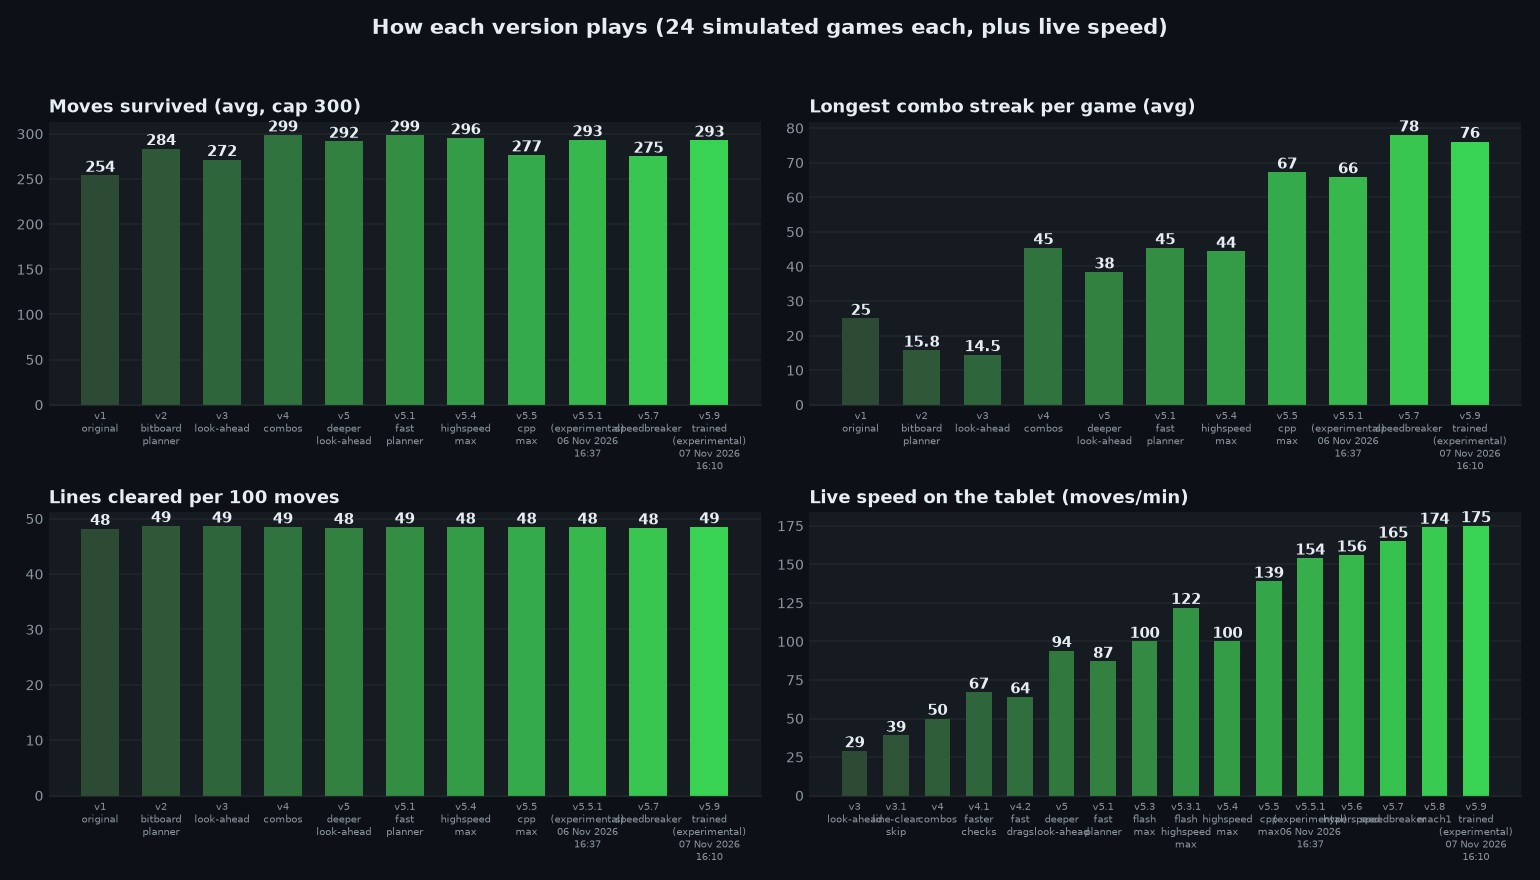
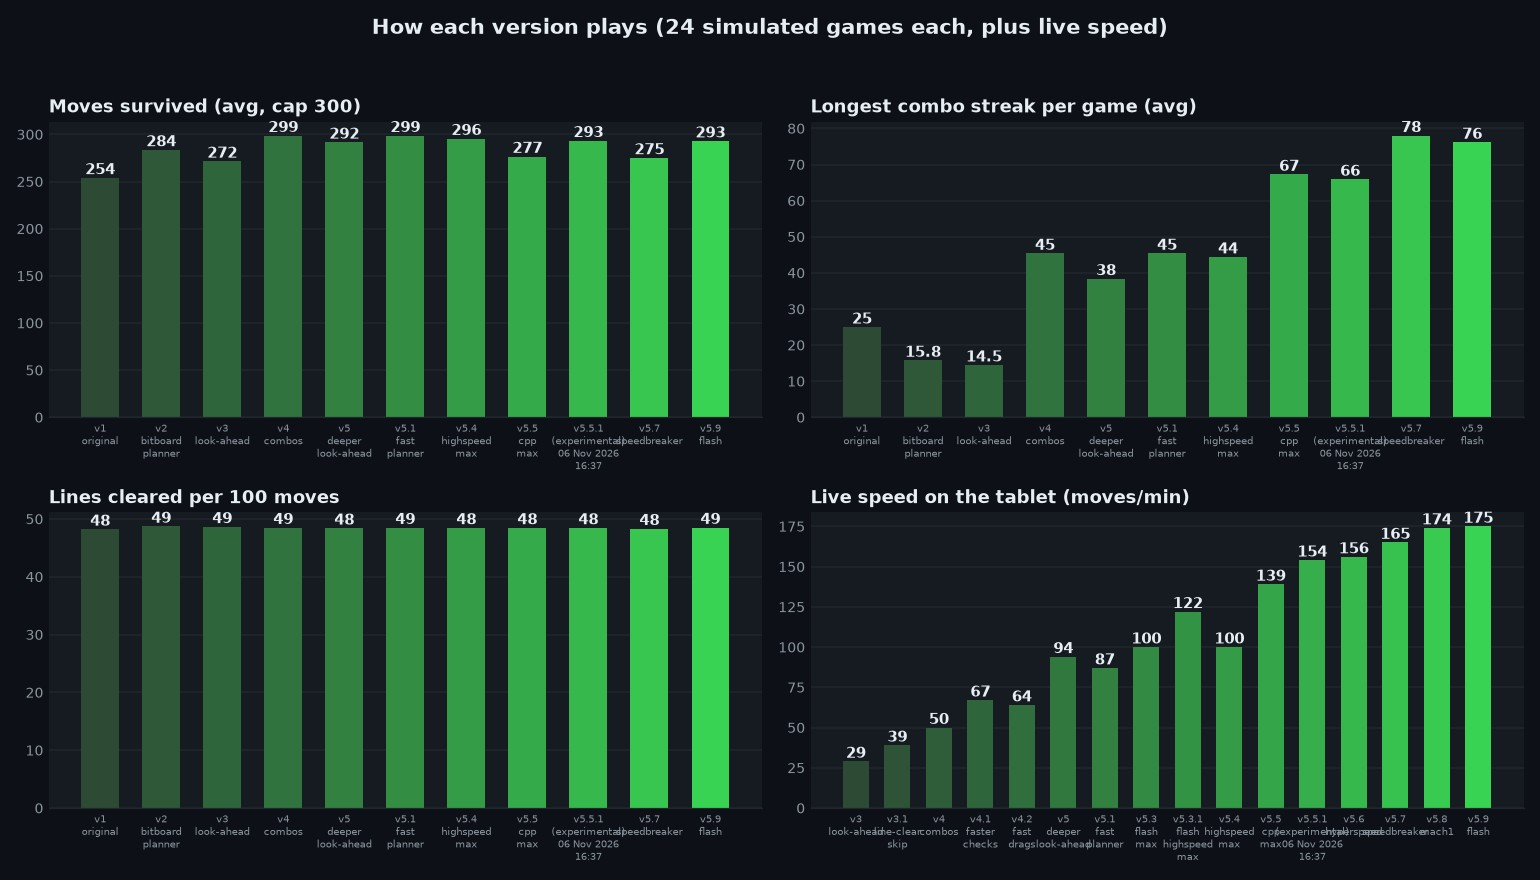
Benchmark: v5.9 flash (released)

diff --git a/bench.py b/bench.py
@@ -36,14 +36,14 @@ VERSIONS = [
     ('v5.5 cpp max', 'e2f0115', 'cpp'),
     ('v5.5.1 (experimental)', '2847186', 'cpp'),
     ('v5.7 speedbreaker', '82bbd9d', 'cpp'),
-    ('v5.9 trained (experimental)', '70c481b', 'cpp'),
+    ('v5.9 flash', '0cbd373', 'cpp'),
 ]
 # Where each C++ version's planner source lives in its commit.
 CPP_SRC = {'v5.5 cpp max': 'versions/v5.5-cpp-max/src', 'v5.5.1 (experimental)': 'versions/v5.5.1-exp/src',
             'v5.7 speedbreaker': 'versions/v5.7-speedbreaker/src',
-            'v5.9 trained (experimental)': 'versions/v5.9-trained-exp/src'}
+            'v5.9 flash': 'versions/v5.9-flash/src'}
 # Extra source files a C++ version's planner needs (v5.9: the trained value network).
-CPP_EXTRA = {'v5.9 trained (experimental)': ['value.hpp', 'value.cpp', 'value_weights.inc']}
+CPP_EXTRA = {'v5.9 flash': ['value.hpp', 'value.cpp', 'value_weights.inc']}
 # Measured on the tablet (moves/min from bot.log over 100+ moves). None = not measured.
 LIVE_SPEED = {'v1 original': None, 'v2 bitboard planner': None, 'v3 look-ahead': 29,
               'v3.1 line-clear skip': 39, 'v4 combos': 50,
@@ -55,7 +55,7 @@ LIVE_SPEED = {'v1 original': None, 'v2 bitboard planner': None, 'v3 look-ahead':
               'v5.6 hyperspeed': 156,  # same planner as v5.5.1: speed only
               'v5.7 speedbreaker': 165,  # released with the safe tray check (211 with the riskier one)
               'v5.8 mach1': 174,  # same planner as v5.7: speed only
-              'v5.9 trained (experimental)': 175}  # 174.7 over 889 moves; trained network plans
+              'v5.9 flash': 175}  # 174.7 over 889 moves; trained network plans
 
 WINDOW = current.COMBO_WINDOW
 
